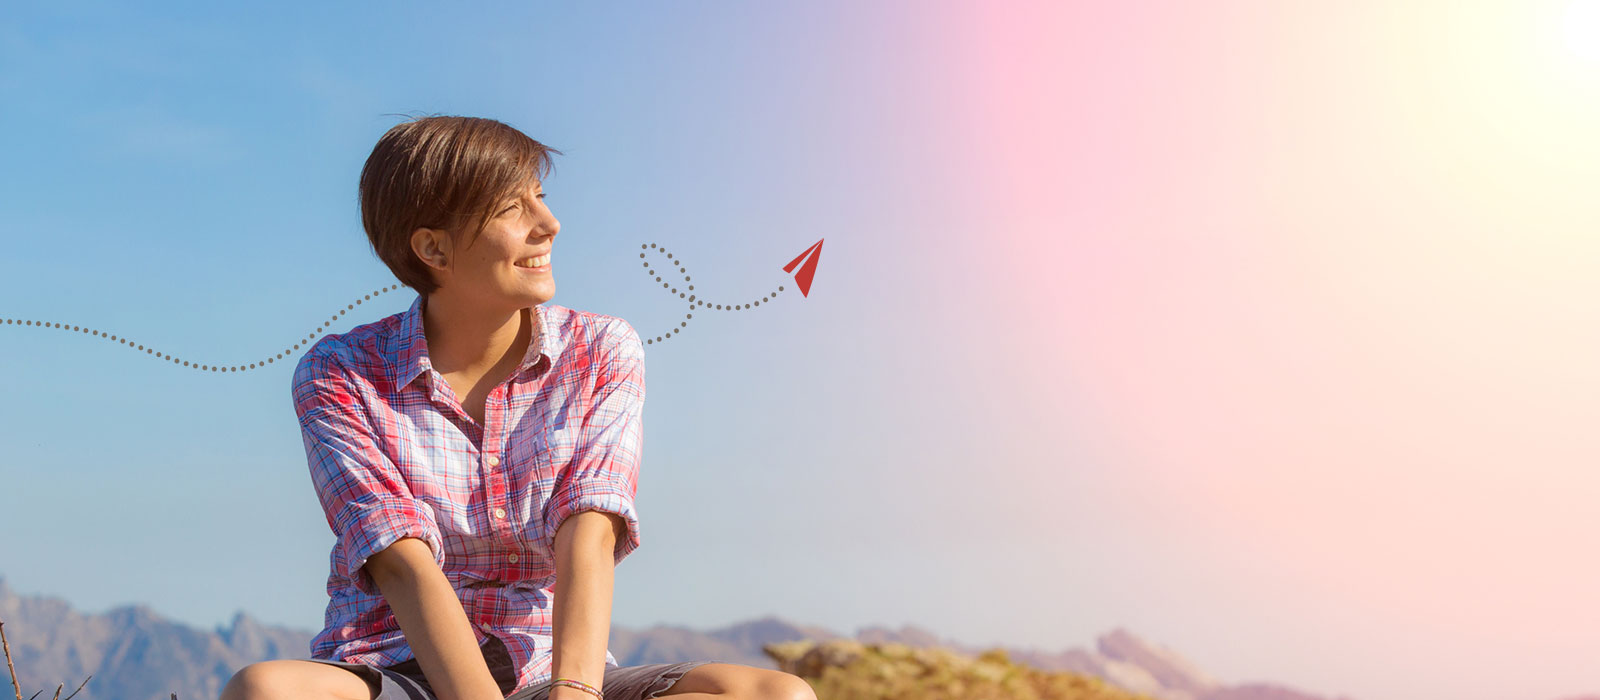
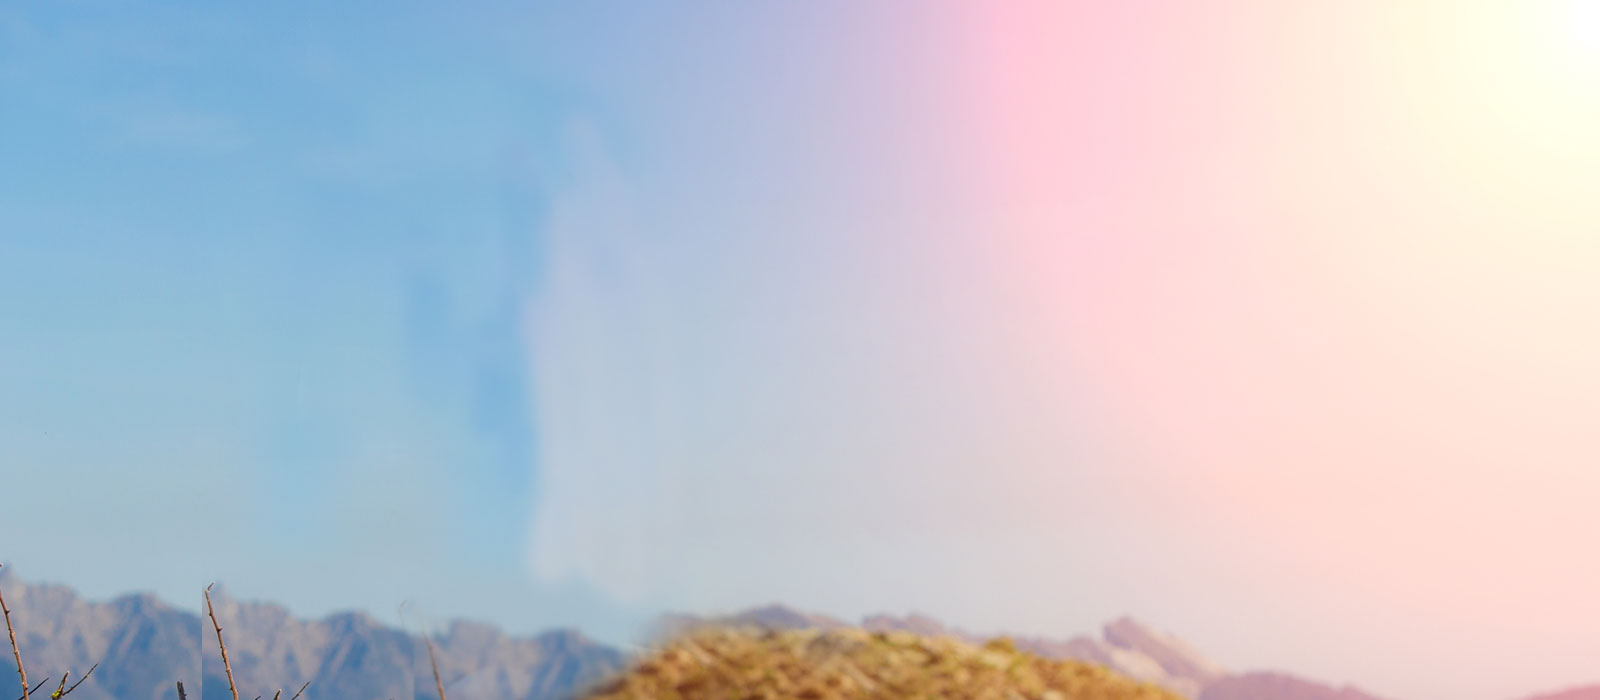
Homepage Plane Animation

diff --git a/index.html b/index.html
@@ -53,6 +53,10 @@
 <!-- Banner -->   
 
 <section class="hero-banner sections banner-height" data-parallax="scroll" data-image-src="images/hero-banner.jpg">
+<div id="airplane-inner">
+	<svg version="1.1" id="svg_airplane" xmlns="http://www.w3.org/2000/svg" xmlns:xlink="http://www.w3.org/1999/xlink" x="0px" y="0px" width="80%" viewBox="0 0 1164.86 450" enable-background="new 0 0 1164.86 450" xml:space="preserve"></svg>
+</div>
+<div class="girl-image"><img src="images/girl-image.png" alt="Girl Image"></div>
 <div class="container">
 	<div class="row">
     	<div class="col-xs-12 text-center wow fadeInUp">
@@ -293,5 +297,113 @@ $('.slimmenu li a').on('click', function(){
 	});
 });
 </script>
+<!-- Plane Animation  -->
+ <script src="https://oss.maxcdn.com/libs/snapsvg/0.1.0/snap.svg-min.js"></script>
+<script>
+jQuery(document).ready(function(){
+  var snapC = Snap("#svg_airplane"); 
+  // SVG C - "Squiggly" Path  
+  var myPathB = snapC.path("M1.359,22.614C41.607,5.647,86.333,2.162,129.976,3.903c192.705,7.69,367.931,111.304,523.181,225.722 c73.13,53.896,147.734,112.606,237.015,129.392c46.868,8.811,95.835,5.297,141.383-8.83 c49.294-15.289,94.682-43.001,130.804-79.864").attr({
+    id: "airplane-path",
+    fill: "none",
+    strokeWidth: "8",
+    stroke: "#736a60", // Line Color
+	opacity: "0.5",
+    strokeMiterLimit: "10",
+    strokeDasharray: "8 8 8 8",
+    strokeDashOffset: "180"
+  });
+  var myPathC = snapC.path("M1.359,22.614C41.607,5.647,86.333,2.162,129.976,3.903c192.705,7.69,367.931,111.304,523.181,225.722 c73.13,53.896,147.734,112.606,237.015,129.392c46.868,8.811,95.835,5.297,141.383-8.83 c49.294-15.289,94.682-43.001,130.804-79.864").attr({
+    id: "airplane-path",
+    fill: "none",
+    strokeWidth: "12",
+    stroke: "#b0c5da",
+	opacity: "0",
+    strokeMiterLimit: "10",
+    strokeDasharray: "10 10 10 10",
+    strokeDashOffset: "180"
+  });
+
+  // SVG C - Triangle (As Polyline)
+  var PlaneOne = snapC.polyline("257.867,105.353 33.112,3.926 60.13,62.228");
+  PlaneOne.attr({
+    fill: "#bd3934"
+  })
+  
+  var PlaneTwo = snapC.polyline("60.13,62.228 23.57,113.588 257.867,105.353");
+  PlaneTwo.attr({
+    fill: "#ab2f2a"
+  })
+  var PlaneThree = snapC.polyline("23.57,113.588 89.553,112.285 75.637,94.13");
+  PlaneThree.attr({
+    fill: "#bd3934"
+  })
+  var PlaneFour = snapC.polyline("75.637,94.129 104.396,156.229 257.867,105.353");
+  PlaneFour.attr({
+    fill: "#bd3934"
+  })
+  var Plane = snapC.g(PlaneOne, PlaneTwo, PlaneThree, PlaneFour);
+  Plane.attr({
+    id: "airplane"
+  });
+  
+  initPlane();
+  
+  // Initialize Plane on Path
+  function initPlane(){
+    var planeGroup = snapC.g( Plane ); // Group polyline 
+    movePoint = myPathC.getPointAtLength(length);
+    planeGroup.transform( 't' + parseInt(movePoint.x - 80) + ',' + parseInt( movePoint.y - 80) + 'r' + (movePoint.alpha - 180));
+  }
+  
+  // SVG C - Draw Path
+  var lenC = myPathC.getTotalLength();
+
+  // SVG C - Animate Path
+  function animateSVG() {
+    
+    myPathC.attr({
+      stroke: '#f3f5f6',
+      strokeWidth: 12,
+      fill: 'none',
+      // Draw Path
+      "stroke-dasharray": lenC + ' ' + lenC,
+      "stroke-dashoffset": lenC + lenC
+    }).animate({"stroke-dashoffset": lenC}, 2000,mina.easeinout);
+    
+    var planeGroup = snapC.g( Plane ); // Group polyline
+
+    setTimeout( function() {
+      Snap.animate(0, lenC, function( value ) {
+   
+        movePoint = myPathC.getPointAtLength( value );
+      
+        planeGroup.transform( 't' + parseInt(movePoint.x - 180) + ',' + parseInt( movePoint.y - 100) + 'r' + (movePoint.alpha - 180));
+    
+      }, 2000,mina.easeinout, function(){
+        alertEnd();
+      });
+    });
+    
+  }
+  
+  // Callback Function
+  function alertEnd(){
+    // Enable Button
+    $('#nin').removeAttr('disabled');
+  }
+  // Animate Button
+  function kapow(){
+        $( document ).ready(function() {
+      // Run SVG
+      animateSVG();     
+    });
+  }
+
+  kapow();
+
+});
+</script>
+
 </body>
 </html>

diff --git a/css/style.css b/css/style.css
@@ -532,6 +532,26 @@ header.innner-menu #mainNav.affix {
 	margin: 0 auto;
 	z-index: 10;
 }
+#svg_airplane {
+	position: absolute;
+	top: 25%;
+	width: 50%;
+	overflow: visible;
+	    -ms-transform: rotate(-15deg); /* IE 9 */
+    -webkit-transform: rotate(-15deg); /* Chrome, Safari, Opera */
+    transform: rotate(-15deg);
+}
+
+.girl-image {
+	position: absolute;
+	bottom:0;
+	left:0;
+	right: 0;
+	max-width: 1140px;
+	width: 100%;
+	margin: 0 auto;
+	display: block;
+}
 
 
 #Elevate {
@@ -743,11 +763,6 @@ header.innner-menu #mainNav.affix {
          -o-transition: all 0.5s ease-in-out;
             transition: all 0.5s ease-in-out;
 }
-
-
-
-
-
 .contact-section h3 {
 	font-size: 16px;
 	line-height: 24px;
@@ -851,6 +866,13 @@ header.innner-menu #mainNav.affix {
 	.banner-height {
 		min-height: 500px;
 	}
+	.girl-image img{
+		max-width: 400px;
+	}
+	#svg_airplane {
+		width: 40%;
+		top: 200px;
+	}
 	.hero-banner h1 {
 		padding-left: 330px;
    		padding-top: 180px;
@@ -924,6 +946,13 @@ header.innner-menu #mainNav.affix {
 		max-width: 200px;
 		width: 100%;
 	}
+	.girl-image img{
+		max-width: 350px;
+		padding-left: 50px;
+	}
+	#svg_airplane {
+		top: 150px;
+	}
 	
 	.life-title {
 		top: 20px;
@@ -986,7 +1015,13 @@ header.innner-menu #mainNav.affix {
    		padding-top: 100px;
 		text-align: left;
 	}
-	
+	.girl-image img{
+		max-width: 250px;
+		padding-left: 50px;
+	}
+	#svg_airplane {
+		top: 120px;
+	}	
 	.life-title {
 		font-size: 80px;
 		line-height: 80px;
@@ -1019,6 +1054,14 @@ header.innner-menu #mainNav.affix {
 	.main-menu,
 	.affix .main-menu {
 		padding-top: 10px;
+	}
+	.girl-image img{
+		max-width: 200px;
+		padding-left: 0px;
+	}
+	#svg_airplane {
+		top: 100px;
+		width: 50%;
 	}
 }
 @media(max-width: 380px){  }
@@ -1650,3 +1693,6 @@ header.innner-menu #mainNav.affix {
 		max-width: 50px;
 	}
 }
+
+
+
